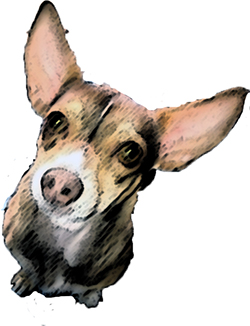
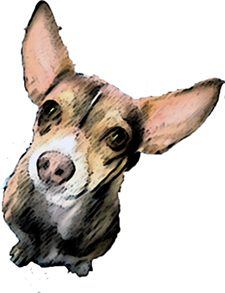
didn’t reposition did resize lol

diff --git a/index.html b/index.html
@@ -31,8 +31,7 @@
   UC Santa Barbara
 </div>
 </div>
-<div id="ruth">
-  <img src="ruth.jpg"></img>
-</div>
+</br>
+<img src="ruth.jpg"></img>
 </body>
 </html>

diff --git a/style.css b/style.css
@@ -49,8 +49,3 @@ div {
   font-family:calibri;
   padding-left:57px;
 }
-
-ruth{
-  padding-left:0px;
-  float:right;
-}
